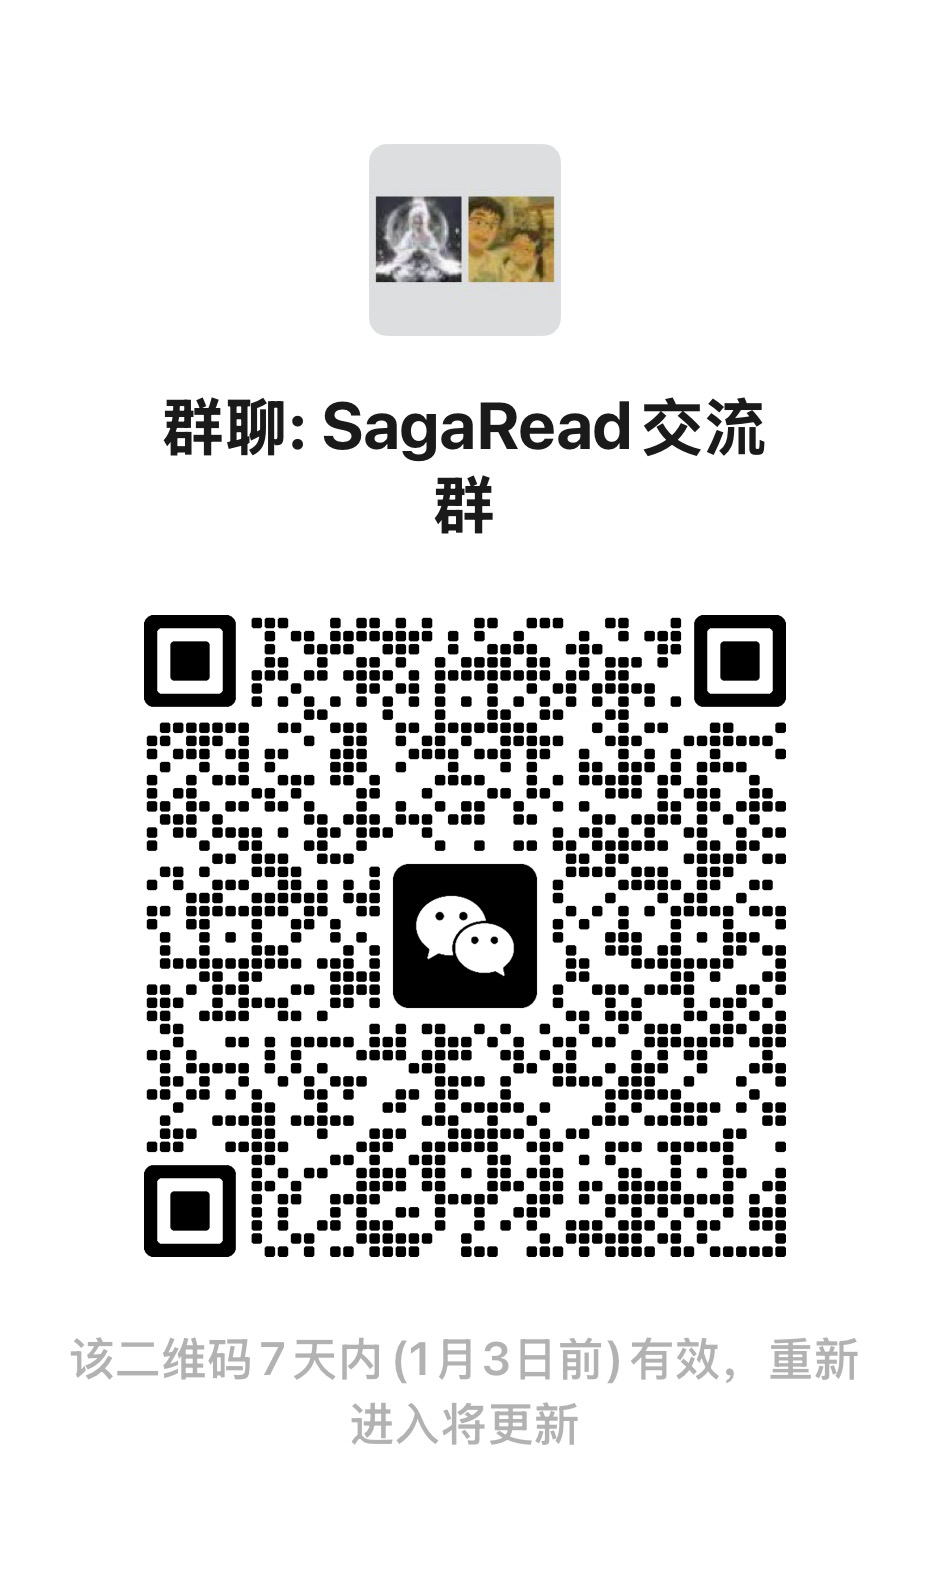
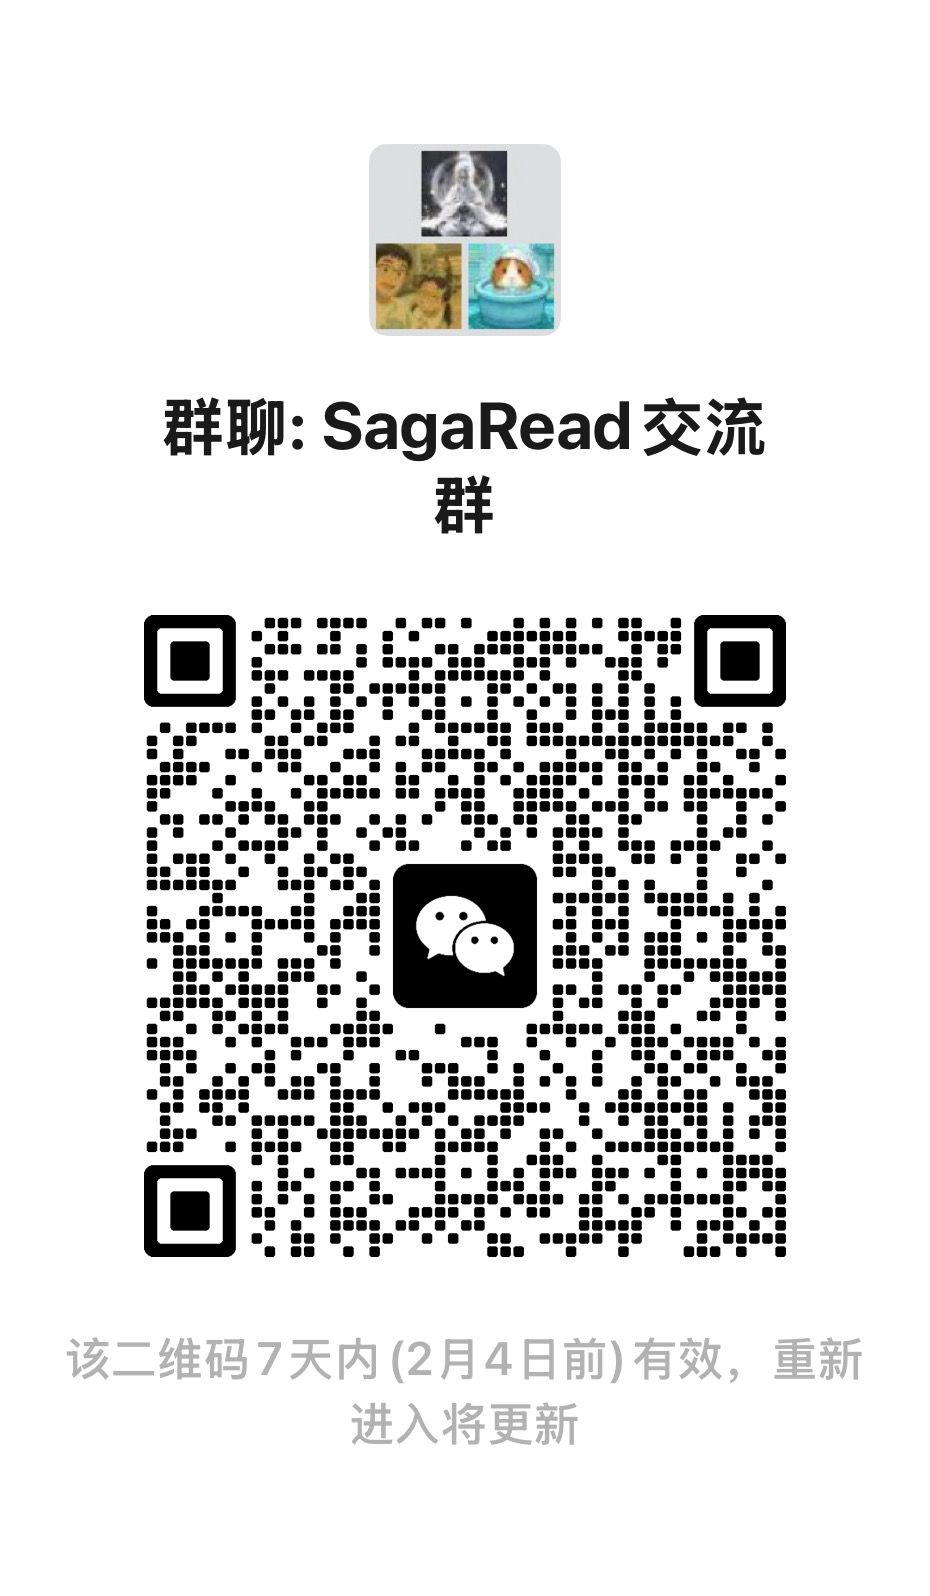
doc:修改群号

diff --git a/README.md b/README.md
@@ -42,4 +42,5 @@ SageRead X 是一款电子书阅读器，主要特点是可以在阅读时随时
 ## 🚀进一步交流
 加入群聊,期待获取更多的意见和建议📊 
 **WeChat**  
+- 2026.2.4日前有效
 <img src="assets/community/qunliao.JPG" alt="community" width="140" />
